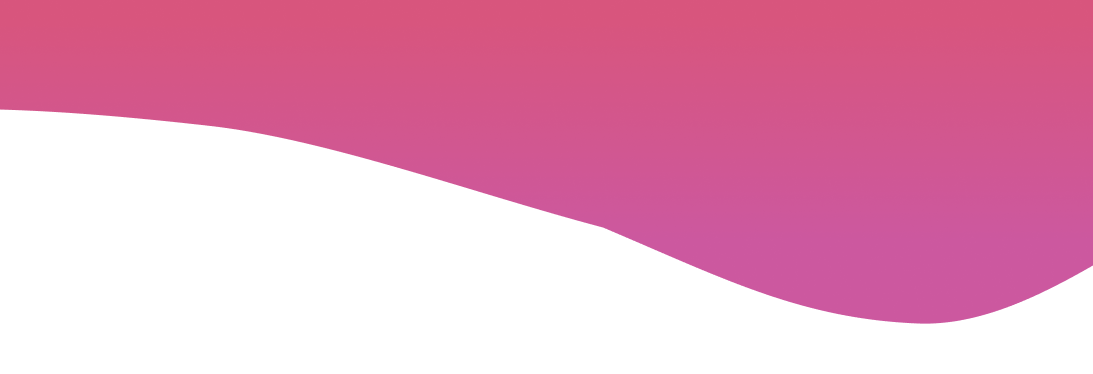
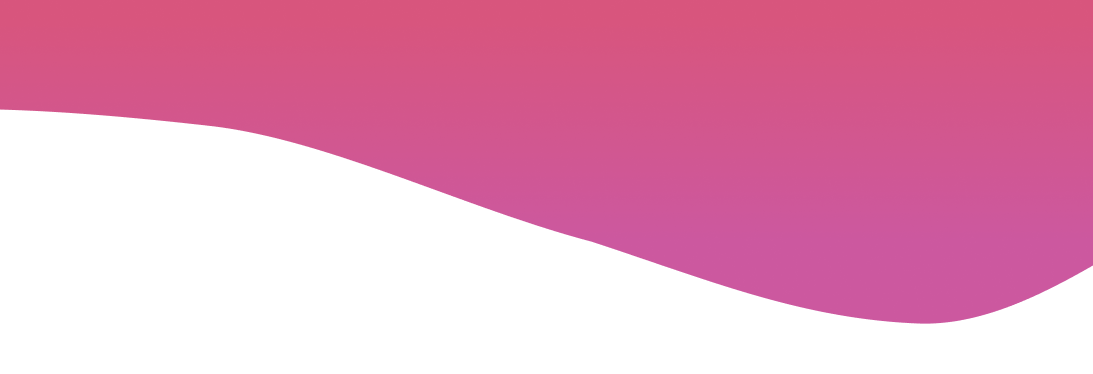
border issue fixed

diff --git a/src/components/Resume.js b/src/components/Resume.js
@@ -44,67 +44,16 @@ export default function Resume() {
           alt="Frame2"
         />
         <div className=" w-[900px] flex gap-5 align-top">
-          <div className="w-full  px-2">
-            <div className="flex items-center justify-center my-6">
+          <div className=" w-[900px] flex">
+            <div className="w-full my-6 mx-6">
               <img
-                src="https://cdn.pixabay.com/photo/2016/04/25/07/15/man-1351317_640.png"
+                src={profile.profile_image}
                 alt="fsdaasd"
-                width={"90%"}
-                height={"100px"}
-                className="rounded-br-[90px]"
+                width={"100%"}
+                className="rounded-br-[90px] h-[250px]"
               />
             </div>
-            <div className="mb-3 pt-1">
-              <HeadingCommon heading="Profile" />
-              <div className="text-sm tracking-wide	text-justify mt-2">
-                {profile.bio}
-              </div>
-            </div>
-            <div className="mb-3">
-              <HeadingCommon heading="Education" />
-
-              <div className="mt-2">
-                {education?.map((item, index) => (
-                  <div className="flex gap-3 items-start mb-2 ">
-                    <p className="text-[#CE6CAA]">{item.year}</p>
-                    <div className="text-sm mt-[-2px]">
-                      <p className="my-1">{item.degree}</p>
-                      <p className="my-1">{item.university}</p>
-                      <p className="my-1">GPA Score : {item.cgpa}</p>
-                    </div>
-                  </div>
-                ))}
-              </div>
-            </div>
-            <div className="mb-3">
-              <HeadingCommon heading="Projects" />
-
-              <div className="mt-2">
-                {projects?.map((item, index) => (
-                  <div className="flex gap-3 ">
-                    <p className="text-[#CE6CAA] whitespace-nowrap	">
-                      {item.year}
-                    </p>
-                    <div>
-                      <div className="text-sm">
-                        <p className="mb-1">{item.title}</p>
-                        <p className="mb-2">{item.director}</p>
-                      </div>
-                      <ul className="list-none">
-                        {item.points?.map((item, index) => (
-                          <li className="relative before:inline-block before:w-1.5 before:h-1.5 before:bg-[#CE6CAA] before:mr-1 before:rounded-full before:content-['']">
-                            {item}
-                          </li>
-                        ))}
-                      </ul>
-                    </div>
-                  </div>
-                ))}
-              </div>
-            </div>
-          </div>
-          <div className="w-full px-2">
-            <div className="mb-5 text-[#fff] my-5">
+            <div className="w-full mb-5 text-[#fff] my-5">
               <div className="flex  flex-col mr-3 mb-4 ">
                 <p className="text-3xl font-semibold tracking-widest text-end mb-2">
                   {profile.firstName}
@@ -136,7 +85,61 @@ export default function Resume() {
                 </p>
               </div>
             </div>
-            <div className="mb-3 mt-20">
+          </div>
+        </div>
+        <div className="w-[900px] px-2 flex gap-5 ">
+          <div className="w-full">
+            <div className="mb-3">
+              <HeadingCommon heading="Profile" />
+              <div className="text-sm tracking-wide	text-justify mt-2">
+                {profile.bio}
+              </div>
+            </div>
+            <div className="mb-3">
+              <HeadingCommon heading="Education" />
+
+              <div className="mt-2">
+                {education?.map((item, index) => (
+                  <div className="flex gap-3 items-start mb-2 ">
+                    <p className="text-[#CE6CAA]">{item.year}</p>
+                    <div className="text-sm mt-[-2px]">
+                      <p className="my-1">{item.degree}</p>
+                      <p className="my-1">{item.university}</p>
+                      <p className="my-1">GPA Score : {item.cgpa}</p>
+                    </div>
+                  </div>
+                ))}
+              </div>
+            </div>
+            <div className="mb-3">
+              <HeadingCommon heading="Projects" />
+
+              <div className="mt-2">
+                {projects?.map((item, index) => (
+                  <div className="flex gap-3 mb-3">
+                    <p className="text-[#CE6CAA] whitespace-nowrap	">
+                      {item.year}
+                    </p>
+                    <div>
+                      <div className="text-base mb-1">
+                        <p className="">{item.title}</p>
+                        <p className="">{item.director}</p>
+                      </div>
+                      <ul className="list-none text-sm">
+                        {item.points?.map((item, index) => (
+                          <li className="mb-1 relative before:inline-block before:w-1.5 before:h-1.5 before:bg-[#CE6CAA] before:mr-1 before:rounded-full before:content-['']">
+                            {item}
+                          </li>
+                        ))}
+                      </ul>
+                    </div>
+                  </div>
+                ))}
+              </div>
+            </div>
+          </div>
+          <div className="w-full">
+            <div className="mb-3">
               <HeadingCommon heading="Skills" />
               <div className="mt-2">
                 {skills?.map((item, index) => (
@@ -159,12 +162,11 @@ export default function Resume() {
             <div className="mb-3">
               <HeadingCommon heading="Achievements" />
               <div className="mt-2">
-                <p className="text-sm tracking-wide	text-justify mb-3">
-                  {profile.achivements.slice(0, 100)}
-                </p>
-                <p className="text-sm tracking-wide	text-justify	">
-                  {profile.achivements.slice(100, profile.achivements.length)}
-                </p>
+                {profile?.achivements?.map((item, index) => (
+                  <p className="text-sm tracking-wide	text-justify mb-3">
+                    {item}
+                  </p>
+                ))}
               </div>
             </div>
             <div className="mb-3">

diff --git a/src/utils/Resumedata.js b/src/utils/Resumedata.js
@@ -5,21 +5,21 @@ import TravelIcon from "../assets/icons/TravelIcon";
 
 export const ResumeObj = {
   profile: {
+    profile_image:
+      "https://cdn.pixabay.com/photo/2016/04/25/07/15/man-1351317_640.png",
     firstName: "Chandrakant Deore",
-    designation: "Graphic Designer",
-    email: "abc@gmail.com",
+    designation: "Frontend Developer",
+    email: "chandudeore2016@gmail.com",
     phone: "+91 9284714963",
-    location: "Pune, India",
-    githubLink: "https://github.com/",
-    bio: "Lorem Ipsum is simply dummy text of the printing and typesetting industry. Lorem Ipsum has been the industry's standard dummy text ever since the 1500s, when an unknown printer took a galley of type and scrambled it to make a type specimen book. It has survived not only five centuries, but also the leap into    electronic typesetting, remaining essentially unchanged. It was",
-    achivements:
-      "Lorem Ipsum is simply dummy text of the printing and typesetting industry. Lorem Ipsum has been the industry's standard dummy text ever since the 1500s.",
+    location: "Nashik, India",
+    githubLink: "https://github.com/chandudeore",
+    bio: "Hello! I'm Chandrakant Deore, a passionate frontend developer with a love for crafting engaging and user-friendly web experiences. With a background in computer application, I bring a combination of technical skills and creative thinking to every project.",
+    achivements: [
+      "Led or contributed significantly to the completion of a complex project within the specified timeline and budget.",
+      "Successfully optimized code for a critical component, resulting in improved performance and reduced resource consumption.",
+    ],
   },
   hobbies: [
-    {
-      icon: <TravelIcon />,
-      title: "Travel",
-    },
     {
       icon: <Reading />,
       title: "Reading",
@@ -35,64 +35,72 @@ export const ResumeObj = {
   ],
   skills: [
     {
-      title: "PhotoShop",
-      percent: "65",
+      title: "Reactjs",
+      percent: "90",
     },
     {
-      title: "Creative Writing",
-      percent: "60",
+      title: "Nodejs",
+      percent: "80",
     },
     {
-      title: "Web Designing",
-      percent: "68",
+      title: "HTML/CSS",
+      percent: "95",
     },
     {
-      title: " Illustrator",
-      percent: "65",
+      title: "Javascript",
+      percent: "95",
+    },
+    {
+      title: "Typescript",
+      percent: "95",
     },
   ],
   languages: [
     {
-      title: "Hindi",
-      percent: "65",
+      title: "Marathi",
+      percent: "95",
+    },
+    {
+      title: "Tamil",
+      percent: "55",
     },
     {
       title: "English",
-      percent: "50",
-    },
-    {
-      title: "Marathi",
-      percent: "68",
+      percent: "40",
     },
   ],
   education: [
     {
       university: "Pune Unviersity",
-      degree: "Bachelor's Degree in Graphic",
-      cgpa: 7.0,
-      year: "2012 - 2016",
+      degree: "Master's Degree in Computer Application",
+      cgpa: 9.0,
+      year: "2019 - 2022",
     },
     {
       university: "Pune Unviersity",
-      degree: "Master's Degree in Graphic",
-      cgpa: 7.0,
-      year: "2016 - 2018",
-    },
-    {
-      university: "Pune Unviersity",
-      degree: "Master's",
-      cgpa: 7.0,
-      year: "2018 - 2020",
+      degree: "Bachelor's Degree in Computer Science",
+      cgpa: 9.0,
+      year: "2016 - 2019",
     },
   ],
   projects: [
     {
-      year: "2019-2021",
-      title: "Project Title",
+      year: "2022-2023",
+      title: "Hype",
       director: "Creative Director",
       points: [
-        "Lorem ipsum dolor sit amet, consectetur adipiscing velit.",
-        "Lorem ipsum dolor sit amet, consectetur adipiscing velit.",
+        "Contribute as a team member to desing beautiful UI's.",
+        "Design cutomize application",
+        "Use code resubility & optimization in code.",
+      ],
+    },
+    {
+      year: "2022-2023",
+      title: "Hype Admin",
+      director: "Creative Director",
+      points: [
+        "Contribute as a team member to desing beautiful UI's.",
+        "Design cutomize dashboard UI",
         "Lorem ipsum dolor sit amet, consectetur adipiscing velit.",
       ],
     },

diff --git a/src/App.css b/src/App.css
@@ -1,38 +1,3 @@
-.App {
-  text-align: center;
-}
-
-.App-logo {
-  height: 40vmin;
-  pointer-events: none;
-}
-
-@media (prefers-reduced-motion: no-preference) {
-  .App-logo {
-    animation: App-logo-spin infinite 20s linear;
-  }
-}
-
-.App-header {
-  background-color: #282c34;
-  min-height: 100vh;
-  display: flex;
-  flex-direction: column;
-  align-items: center;
-  justify-content: center;
-  font-size: calc(10px + 2vmin);
-  color: white;
-}
-
-.App-link {
-  color: #61dafb;
-}
-
-@keyframes App-logo-spin {
-  from {
-    transform: rotate(0deg);
-  }
-  to {
-    transform: rotate(360deg);
-  }
+.ant-progress {
+  font-family: Montserrat;
 }

diff --git a/public/index.html b/public/index.html
@@ -6,6 +6,12 @@
       rel="icon"
       href="https://cdn.pixabay.com/photo/2016/04/25/07/15/man-1351317_640.png"
     />
+    <link rel="preconnect" href="https://fonts.googleapis.com" />
+    <link rel="preconnect" href="https://fonts.gstatic.com" crossorigin />
+    <link
+      href="https://fonts.googleapis.com/css2?family=Montserrat:wght@100;200;300;400;500;600;700&display=swap"
+      rel="stylesheet"
+    />
     <meta name="viewport" content="width=device-width, initial-scale=1" />
     <meta name="theme-color" content="#000000" />
     <meta

diff --git a/src/components/HeadingCommon.js b/src/components/HeadingCommon.js
@@ -4,14 +4,15 @@ export default function HeadingCommon(props) {
   return (
     <>
       <div className="text-xl font-medium text-[#CE6CAA]">{props.heading}</div>
-      <hr
-        style={{
-          border: 0,
-          height: "1.5px",
-          backgroundColor: "#CE6CAA",
-          margin: 0,
-        }}
-      />
+      <div className="w-full">
+        <hr
+          style={{
+            border: 0,
+            borderTop: "2px solid #CE6CAA",
+            margin: 0,
+          }}
+        />
+      </div>
     </>
   );
 }
